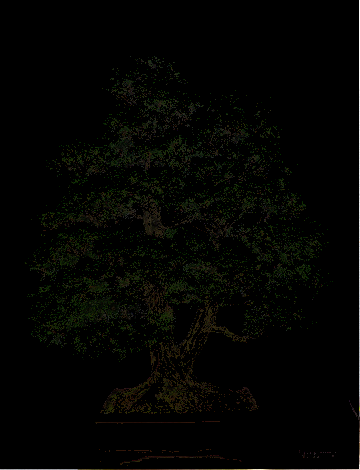
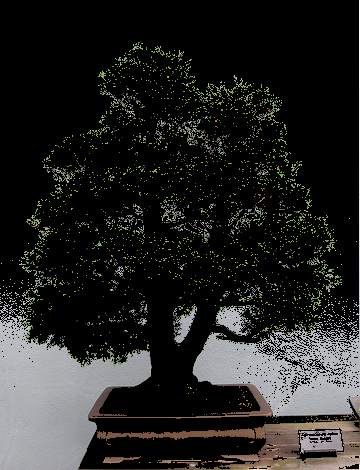
l

diff --git a/PraticoProcessamento/PraticoProcessamento.py b/PraticoProcessamento/PraticoProcessamento.py
@@ -32,9 +32,23 @@ def negativo(img1):
     cv2.imwrite('ativ3.png',img2)
     return img2;
 
-def fatiamento(img1,inthini,inthfim,intvini,intvfim):
-    img2 = img1[inthini:inthfim,intvini:intvfim]
-    cv2.imwrite('ativ4.png',img2)
+def fatiamento(img1,intini,intfim):
+    img2 = copy.copy(img1)
+    for i in range(0, img1.shape[0]-1):
+        for j in range(0, img1.shape[1]-1):
+            if img1.item(i,j,0) >= intfim:
+                img2[i,j] = 0
+            if img1.item(i,j,1) >= intfim:
+                img2[i,j] = 0
+            if img1.item(i,j,2) >= intfim:
+                img2[i,j] = 0
+            if img1.item(i,j,0) <= intini:
+                img2[i,j] = 0
+            if img1.item(i,j,1) <= intini:
+                img2[i,j] = 0
+            if img1.item(i,j,2) <= intini:
+                img2[i,j] = 0
+    cv2.imwrite('ativ1.png',img2) 
     return img2;
 
 def media(img1,mask):
@@ -104,15 +118,13 @@ def show(img1,img2):
 img = cv2.imread('img02.png',cv2.IMREAD_COLOR) #imagem
 lim = 50 #valor da limiar
 ggamma = 2.0 #valor da gamma
-inthini = 60 #inicio do intervalo horizontal
-inthfim = 200 #final do intervalo horizontal
-intvfim = 200 #inicio do intervalo vertical
-intvini = 60 #final do intervalo vertical
-mask = 7 #tamanho da mascara
+intini = 60 #inicio do intervalo
+intfim = 200 #final do intervalo
+mask = 3 #tamanho da mascara
 show(img,limiarizacao(img,lim))
 show(img,gamma(img,ggamma))
 show(img,negativo(img))
-show(img,fatiamento(img,inthini,inthfim,intvini,intvfim))
+show(img,fatiamento(img,intini,intfim))
 show(img,media(img,mask))
 show(img,mediana(img,mask))
 show(img,max(img,mask))
